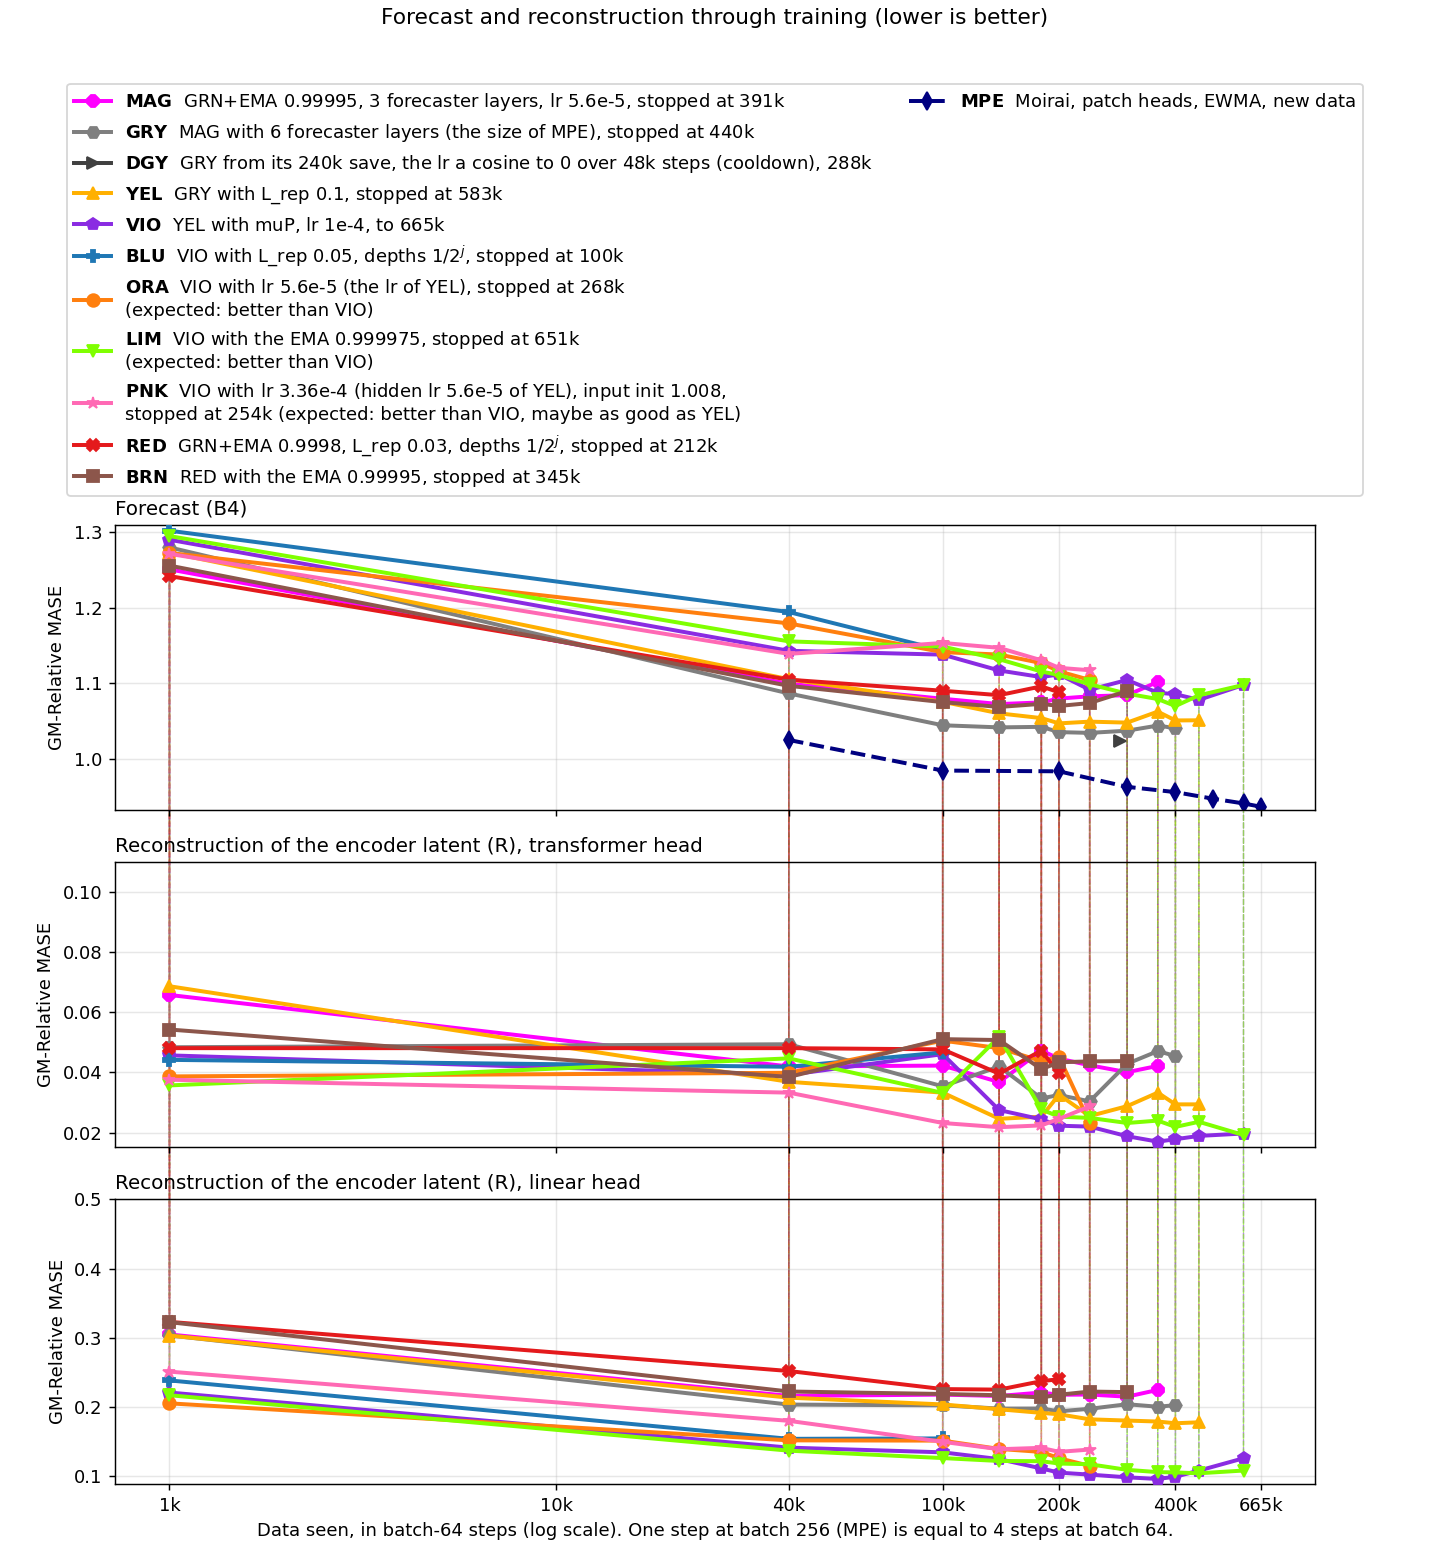
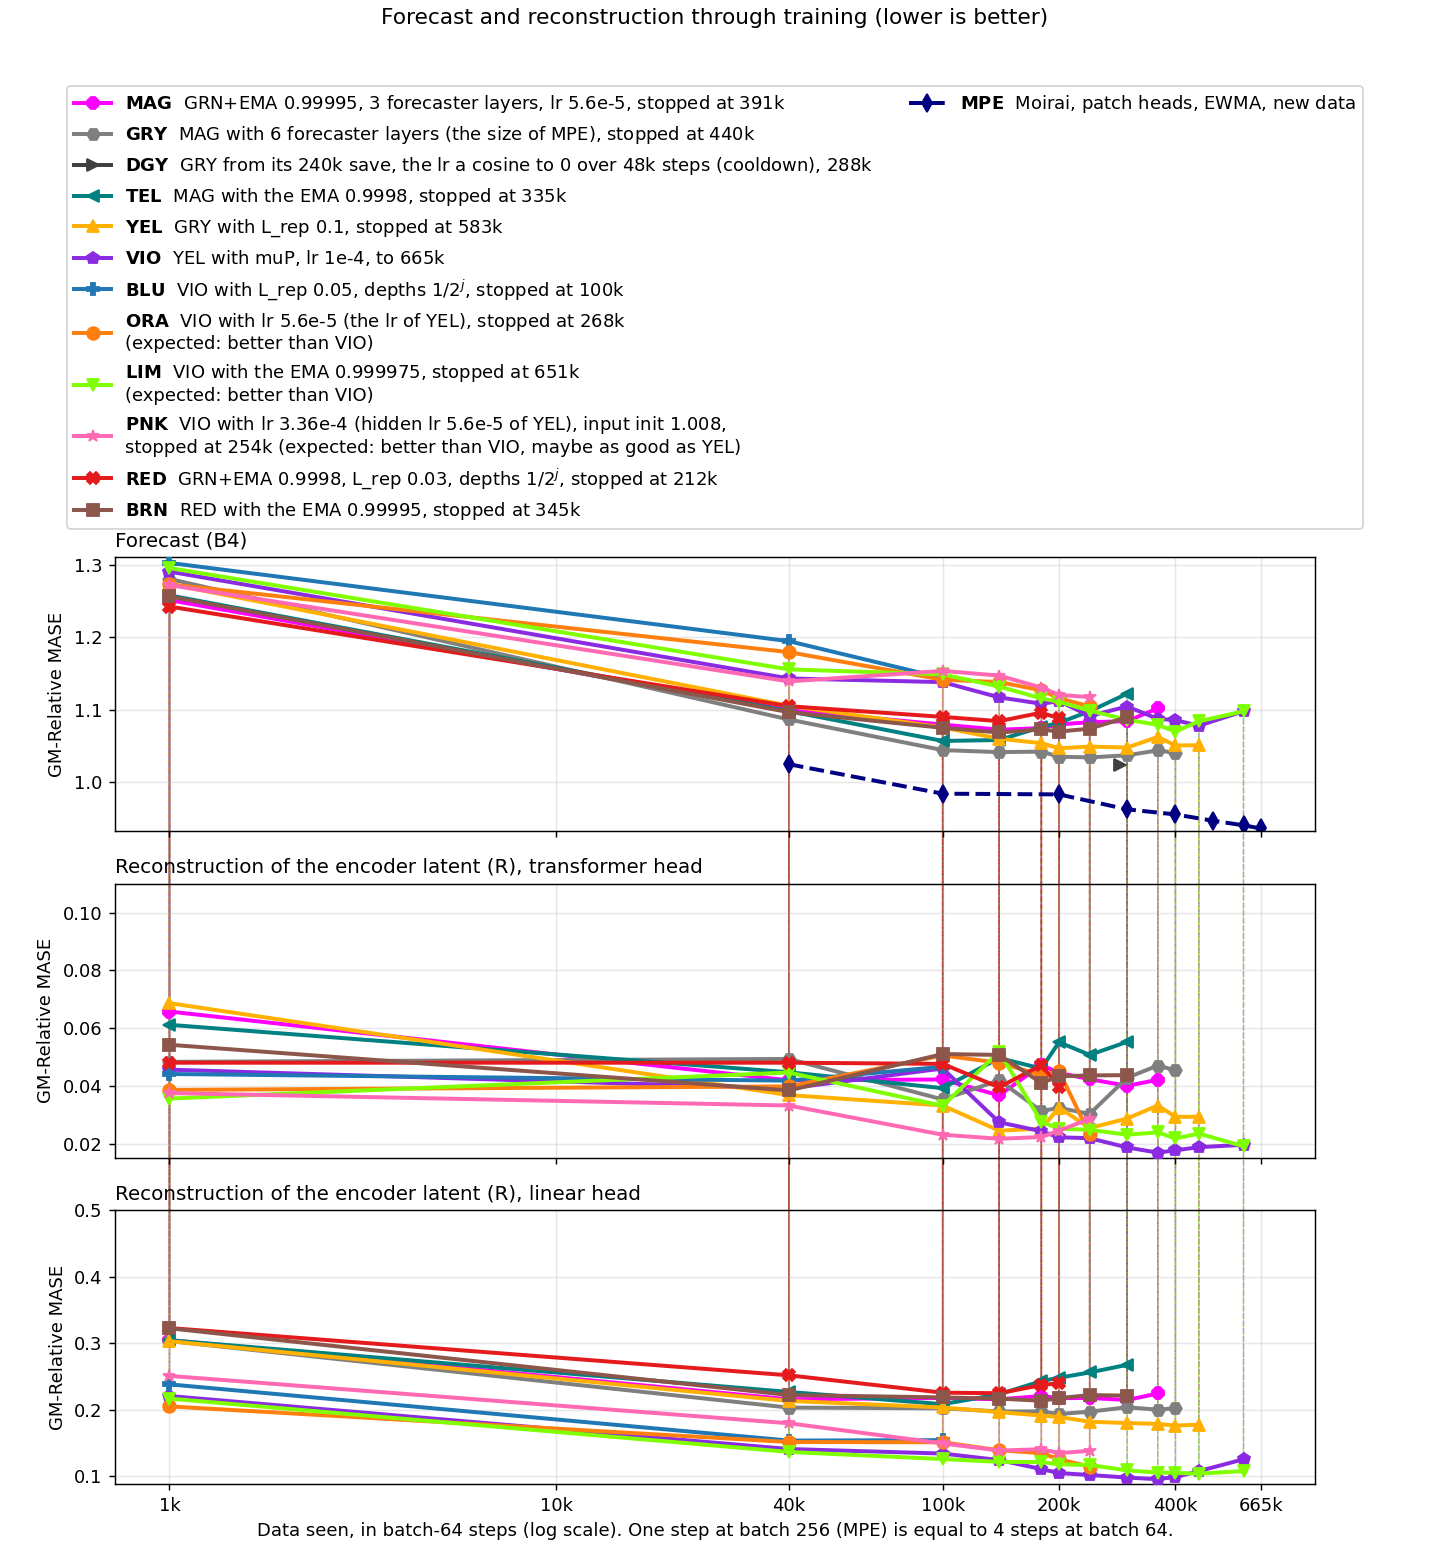
freq_family report: teal (TEL) back in the score figure, and TRQ (teal with the SIGReg window fix) for its scores

diff --git a/reports/2026-10-10_frequency_family_head/scripts/plot_green_scores.py b/reports/2026-10-10_frequency_family_head/scripts/plot_green_scores.py
@@ -16,7 +16,7 @@ Writes plots/forecast_and_reconstruction.png: three panels on one x axis.
 
 A dashed vertical line joins the scores of one checkpoint in the panels. The
 legend gives each run a three-letter code (from its colour: MAG, GRY, YEL, VIO,
-BLU, ORA, LIM, PNK, RED, BRN, DGY), and for orange, lime and pink the result that
+BLU, ORA, LIM, PNK, RED, BRN, DGY, TEL, TRQ), and for orange, lime and pink the result that
 the user expected before their start.
 
 Reads the forecast of MPE of #412 and #425
@@ -58,6 +58,10 @@ GRN_EMA099995_COLOUR = "#ff00ff"
 GRN_EMA099995_F6 = "grn_ema099995_f6"
 GRN_EMA099995_F6_COLOUR = "#7f7f7f"  # no other run of this figure has this colour
 GRN_EMA099995_F6_CD240 = "grn_ema099995_f6_cd240"
+GRN_EMA09998 = "grn_ema09998"
+GRN_EMA09998_COLOUR = "#008080"  # teal
+GRN_EMA09998_SIGFIX = "grn_ema09998_sigfix"
+GRN_EMA09998_SIGFIX_COLOUR = "#40e0d0"  # turquoise: no other run of this figure has this colour
 GRN_EMA099995_F6_CD240_COLOUR = "#404040"  # dark grey, the cooldown of grey: no other run of this figure has this colour
 GRN_EMA099995_F6_REP01 = "grn_ema099995_f6_rep01"
 GRN_EMA099995_F6_REP01_COLOUR = "#ffb000"  # no other run of this figure has this colour
@@ -82,14 +86,14 @@ NEW_RUNS = [GRN_EMA099995, GRN_EMA099995_F6,
             GRN_EMA099995_F6_REP005_HALVING_MUP, GRN_EMA099995_F6_REP01_MUP_LR56,
             GRN_EMA0999975_F6_REP01_MUP, GRN_EMA099995_F6_REP01_MUP_HID56,
             GRN_EMA09998_REP003_HALVING, GRN_EMA099995_REP003_HALVING,
-            GRN_EMA099995_F6_CD240]
+            GRN_EMA099995_F6_CD240, GRN_EMA09998, GRN_EMA09998_SIGFIX]
 # The newest runs: drawn above the others, so that their first points show.
 ON_TOP = {GRN_EMA099995, GRN_EMA099995_F6, GRN_EMA099995_F6_REP01,
           GRN_EMA099995_F6_REP01_MUP, GRN_EMA099995_F6_REP005_HALVING_MUP,
           GRN_EMA099995_F6_REP01_MUP_LR56, GRN_EMA0999975_F6_REP01_MUP,
           GRN_EMA099995_F6_REP01_MUP_HID56,
           GRN_EMA09998_REP003_HALVING, GRN_EMA099995_REP003_HALVING,
-          GRN_EMA099995_F6_CD240}
+          GRN_EMA099995_F6_CD240, GRN_EMA09998, GRN_EMA09998_SIGFIX}
 MPE = "cf421ew_moirai_native"
 # Its R (transformer head 0.12 to 0.21) lies far above the R panels.
 FORECAST_ONLY = {MPE}
@@ -105,6 +109,10 @@ RUNS = [
      "stopped at 440k", GRN_EMA099995_F6_COLOUR, "H"),
     (GRN_EMA099995_F6_CD240, r"$\mathbf{DGY}$  GRY from its 240k save, the lr a cosine to 0 "
      "over 48k steps (cooldown), 288k", GRN_EMA099995_F6_CD240_COLOUR, ">"),
+    (GRN_EMA09998, r"$\mathbf{TEL}$  MAG with the EMA 0.9998, stopped at 335k",
+     GRN_EMA09998_COLOUR, "<"),
+    (GRN_EMA09998_SIGFIX, r"$\mathbf{TRQ}$  TEL from its 100k save with the SIGReg window fix (PR #438), "
+     "to 240k", GRN_EMA09998_SIGFIX_COLOUR, "h"),
     (GRN_EMA099995_F6_REP01, r"$\mathbf{YEL}$  GRY with L_rep 0.1, stopped at 583k",
      GRN_EMA099995_F6_REP01_COLOUR, "^"),
     (GRN_EMA099995_F6_REP01_MUP, r"$\mathbf{VIO}$  YEL with muP, lr 1e-4, to 665k",
@@ -136,7 +144,7 @@ OUR_R_TABLES = ["grn_ema099995", "grn_ema099995_f6",
                 "grn_ema099995_f6_rep005_halving_mup", "grn_ema099995_f6_rep01_mup_lr56",
                 "grn_ema0999975_f6_rep01_mup", "grn_ema099995_f6_rep01_mup_hid56",
                 "grn_ema09998_rep003_halving", "grn_ema099995_rep003_halving",
-                "grn_ema099995_f6_cd240"]
+                "grn_ema099995_f6_cd240", "grn_ema09998"]
 # panel title, y range, the score tables, and whether the forecast of the
 # runs of this report comes from results/scores.tsv
 PANELS = [
